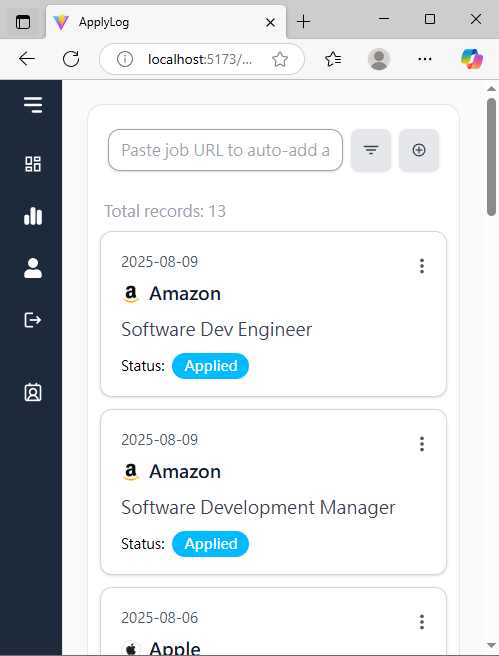
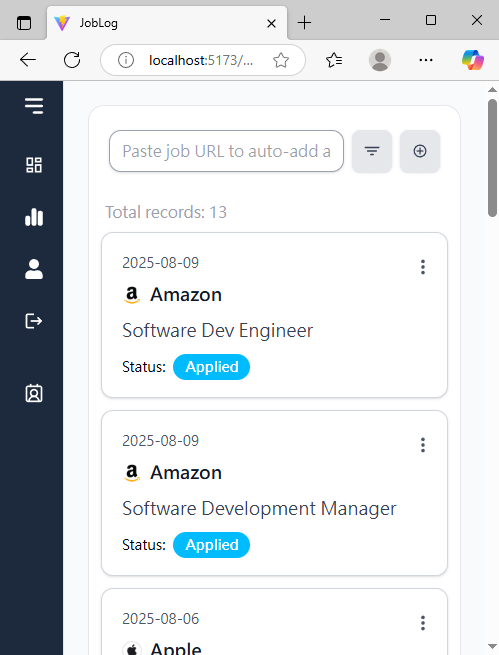
Add a method to get user info in the backend

diff --git a/frontend/index.html b/frontend/index.html
@@ -4,7 +4,7 @@
     <meta charset="UTF-8" />
     <link rel="icon" type="image/svg+xml" href="/vite.svg" />
     <meta name="viewport" content="width=device-width, initial-scale=1.0" />
-    <title>ApplyLog</title>
+    <title>JobLog</title>
   </head>
   <body>
     <div id="root"></div>

diff --git a/job-application-tracker/src/main/java/com/myapp/job_application_tracker/controller/UserInfoController.java b/job-application-tracker/src/main/java/com/myapp/job_application_tracker/controller/UserInfoController.java
@@ -1,0 +1,38 @@
+package com.myapp.job_application_tracker.controller;
+
+import com.myapp.job_application_tracker.model.User;
+import com.myapp.job_application_tracker.service.UserDetailsImpl;
+import com.myapp.job_application_tracker.service.UserService;
+import org.springframework.beans.factory.annotation.Autowired;
+import org.springframework.http.ResponseEntity;
+import org.springframework.security.access.prepost.PreAuthorize;
+import org.springframework.security.core.Authentication;
+import org.springframework.security.core.context.SecurityContextHolder;
+import org.springframework.stereotype.Controller;
+import org.springframework.web.bind.annotation.GetMapping;
+import org.springframework.web.bind.annotation.PostMapping;
+
+@Controller
+public class UserInfoController {
+    @Autowired
+    UserService userService;
+
+    @Autowired
+    public UserInfoController(UserService userService){
+        this.userService = userService;
+    }
+
+    private Long getCurrentUserId(){
+        Authentication authentication = SecurityContextHolder.getContext().getAuthentication();
+        UserDetailsImpl userDetails = (UserDetailsImpl) authentication.getPrincipal();
+        return userDetails.getId();
+    }
+
+    @GetMapping("/userinfo")
+    @PreAuthorize("isAuthenticated()")
+    public ResponseEntity<User> getUserInfo(){
+        Long currentUserId = getCurrentUserId();
+        User user = userService.getUserInfo(currentUserId);
+        return ResponseEntity.ok(user);
+    }
+}

diff --git a/job-application-tracker/src/main/java/com/myapp/job_application_tracker/service/UserService.java b/job-application-tracker/src/main/java/com/myapp/job_application_tracker/service/UserService.java
@@ -1,10 +1,13 @@
 package com.myapp.job_application_tracker.service;
 
+import com.myapp.job_application_tracker.exception.NotFoundException;
 import com.myapp.job_application_tracker.exception.UserAlreadyExistsException;
 import com.myapp.job_application_tracker.model.User;
 import com.myapp.job_application_tracker.repository.UserRepository;
 import org.springframework.security.crypto.password.PasswordEncoder;
 import org.springframework.stereotype.Service;
+
+import java.util.Optional;
 
 @Service
 public class UserService {
@@ -24,5 +27,9 @@ public class UserService {
         }
         user.setPassword(passwordEncoder.encode(user.getPassword()));
         return userRepository.save(user);
+    }
+
+    public User getUserInfo(Long id){
+        return userRepository.findById(id).orElseThrow(() -> new NotFoundException("User Not found."));
     }
 }

diff --git a/README.md b/README.md
@@ -1,4 +1,4 @@
-# ApplyLog
+# JobLog
 Tired of copying and pasting job application details into endless spreadsheets? 
 
 This full-stack app helps you record your job applications easily — just paste a job posting URL, and AI + Web Scraping engine instantly pulls all key job details for you.
